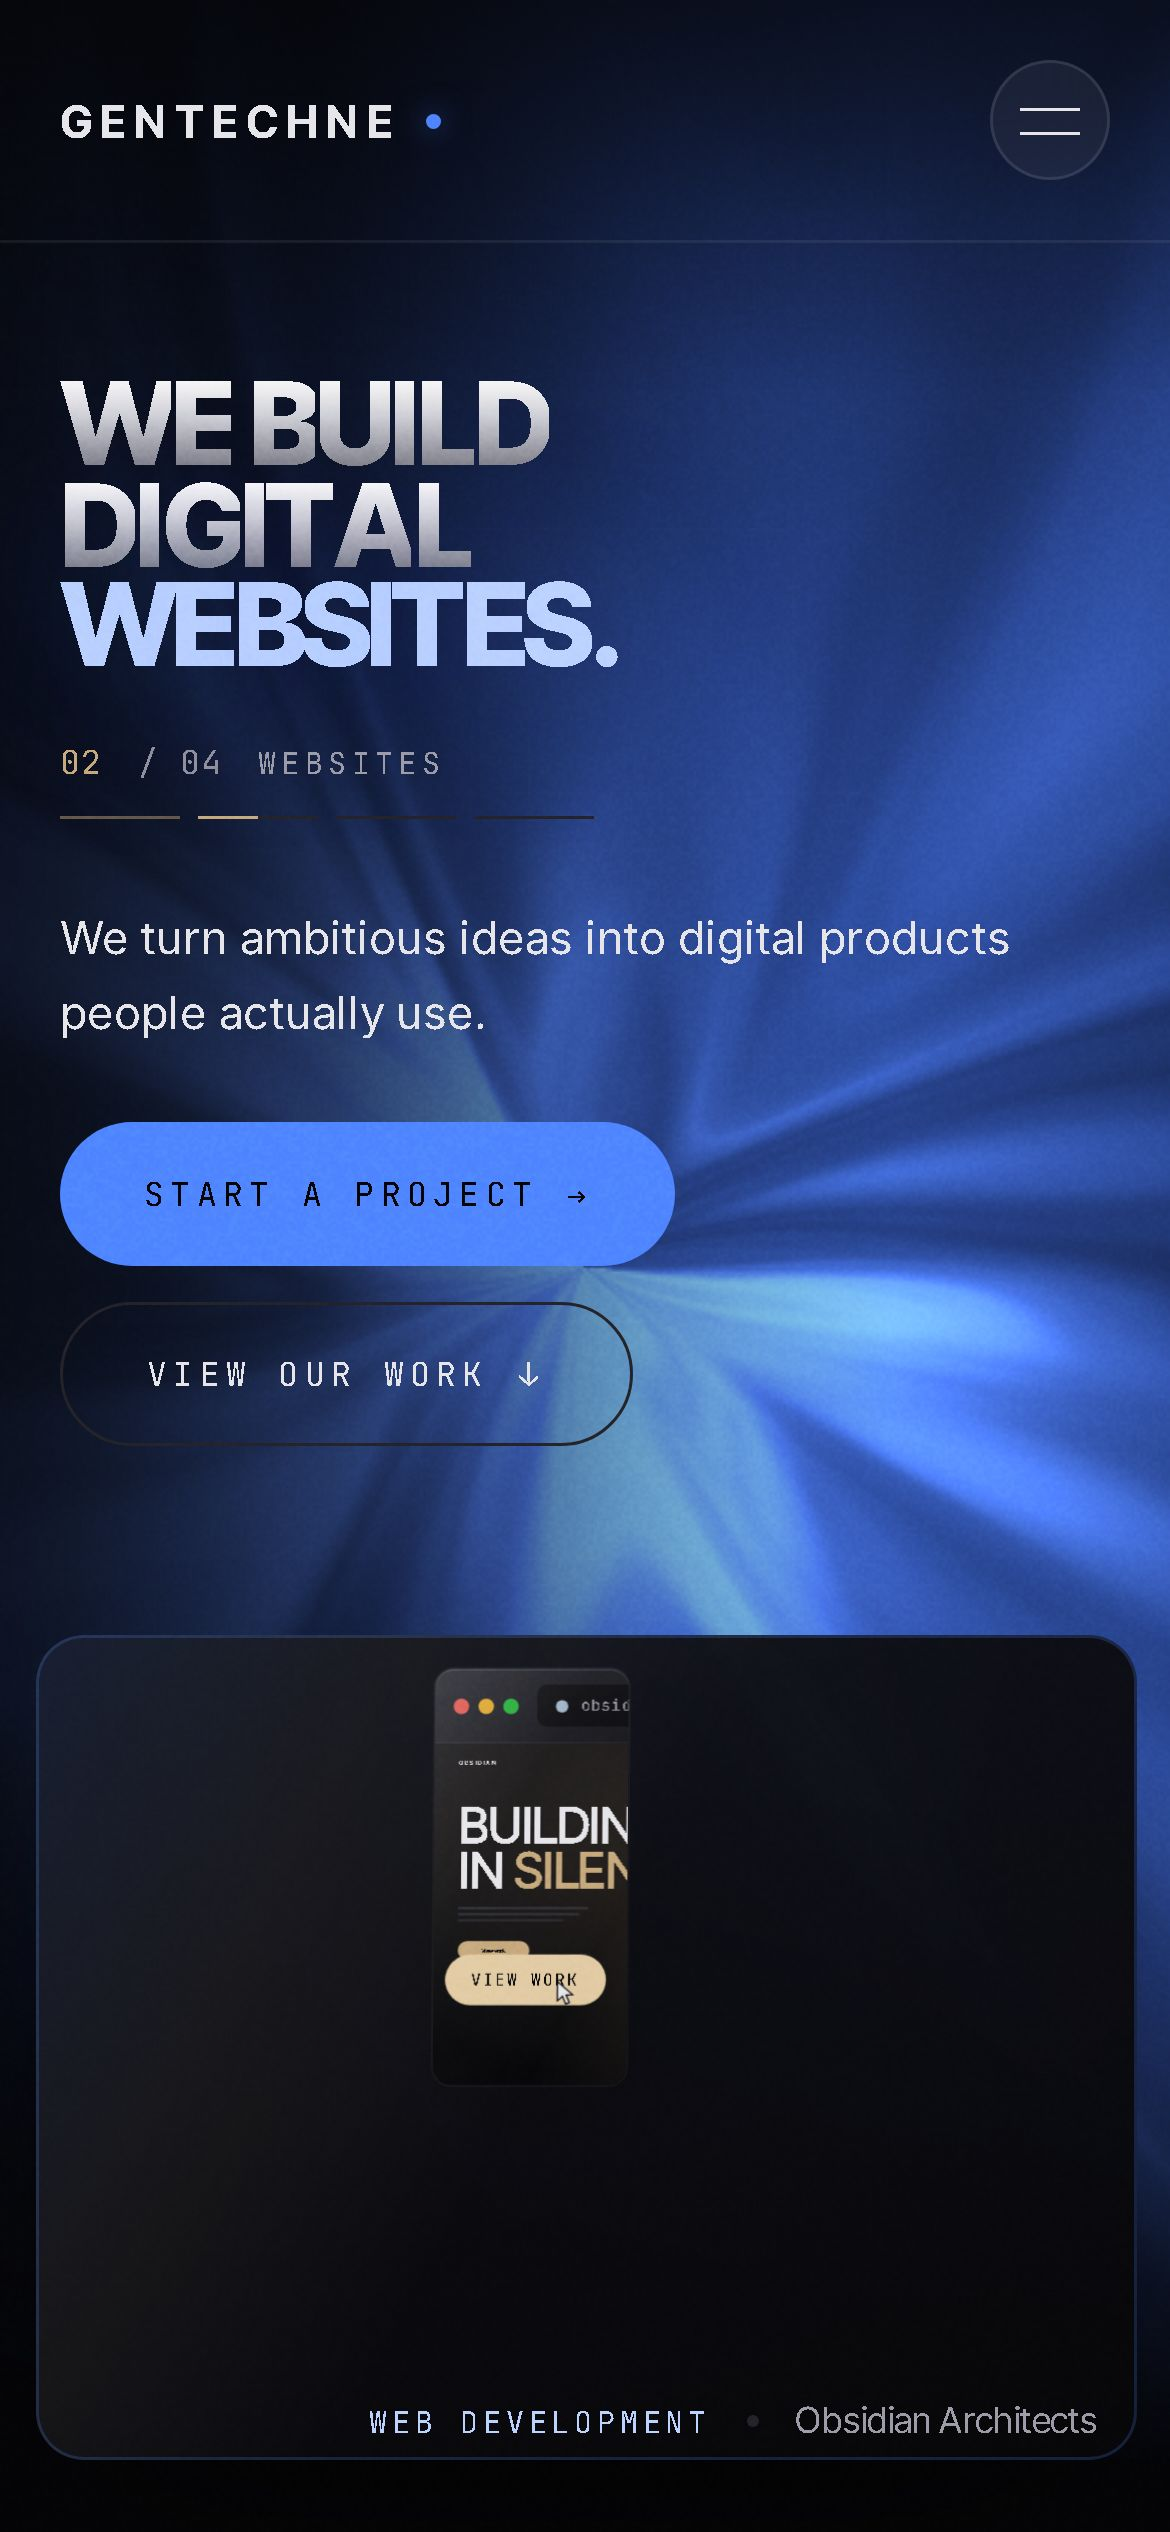
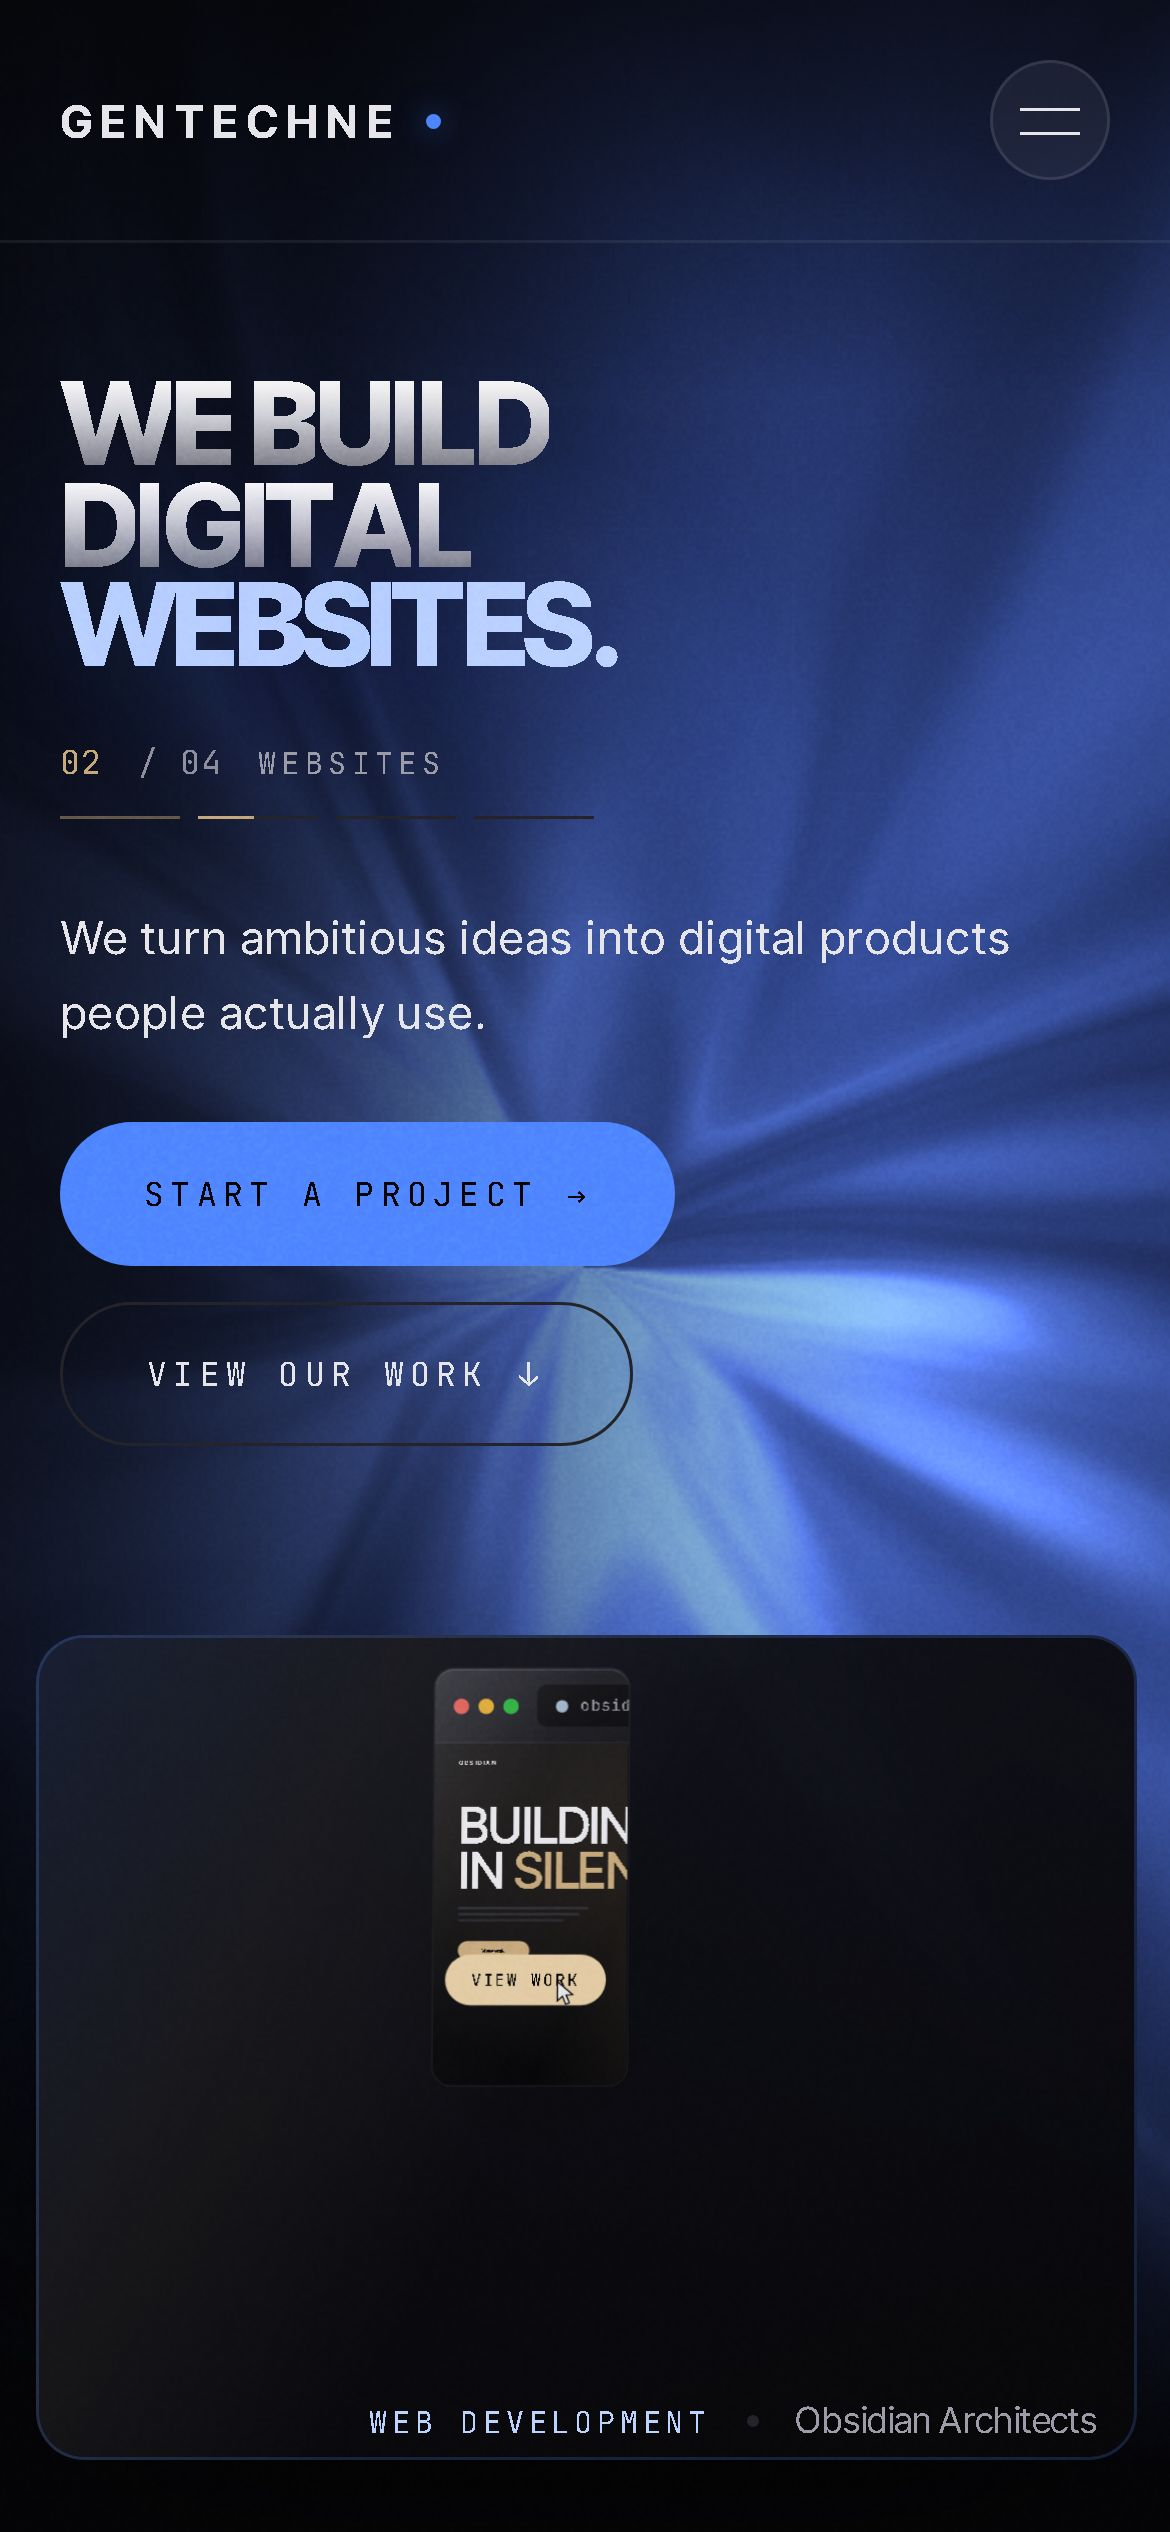
all done

Changed region(s): [[0.6462, 0.4368, 0.7692, 0.4992], [0.8, 0.4992, 0.9231, 0.5616], [0.6462, 0.5304, 0.7077, 0.5928]]

diff --git a/frontend/src/components/ui/PageField.jsx b/frontend/src/components/ui/PageField.jsx
@@ -153,12 +153,19 @@ export function PageField() {
     if (!canvas) return undefined
 
     /*
-     * Low-tier devices never start the shader. A full-screen fragment shader is
-     * cheap on any GPU and expensive without one — measured on a software
-     * renderer it held the page to 25fps even after optimisation. Those devices
-     * get the CSS gradient underneath instead: same palette, not moving.
+     * Low tier used to skip the shader entirely, because on a software renderer
+     * a full-screen fragment shader held the page to 25fps. That measurement
+     * still stands — but the tier is guessed from core count and reported
+     * memory, which say nothing about the GPU. Phones land in this tier by
+     * default, so the whole mobile audience got a background that changed
+     * colour and never moved, which is what it was reported as.
+     *
+     * So the tier now picks a cheaper field rather than no field, and the real
+     * device decides: the watchdog below measures actual frame pacing and drops
+     * to the still gradient if this machine cannot keep up. A guess starts it,
+     * a measurement stops it.
      */
-    if (quality.label === 'low') return undefined
+    const LOW = quality.label === 'low'
 
     const gl =
       canvas.getContext('webgl', { alpha: false, antialias: false, powerPreference: 'low-power' }) ||
@@ -194,7 +201,8 @@ export function PageField() {
 
     /* Under half resolution. The field has no hard edges, so the difference is
        not visible, and it roughly quarters the fragment cost on a 4K panel. */
-    const scale = 0.45
+    /* Fewer pixels to shade is the cheapest lever there is. */
+    const scale = LOW ? 0.28 : 0.45
     let w = 0
     let h = 0
     const resize = () => {
@@ -228,13 +236,41 @@ export function PageField() {
     /* 30fps. The field moves at 0.045 units a second — a dropped frame is not
        perceivable there, and halving the draw rate halves the cost of the most
        expensive thing on the page. */
-    const MIN_DT = 1000 / 30
+    const MIN_DT = LOW ? 1000 / 20 : 1000 / 30
     const start = performance.now()
+
+    /*
+     * Watchdog. Counts frames that arrive far later than they were asked for,
+     * which is what a GPU that cannot keep up actually looks like from here.
+     * Enough of them and the field gives up, paints one still frame and leaves
+     * the page to the CSS gradient — the old low-tier behaviour, but reached by
+     * measuring this device instead of guessing from its core count.
+     */
+    let lateFrames = 0
+    let stalled = false
 
     const frame = (now) => {
       raf = requestAnimationFrame(frame)
       if (now - last < MIN_DT) return
+      const gap = now - last
       last = now
+
+      if (!stalled && now - start > 1500) {
+        // Two and a half times the budget is not jitter, it is a device that
+        // cannot afford this. A second's worth of them is the limit.
+        if (gap > MIN_DT * 2.5) lateFrames += 1
+        else lateFrames = Math.max(0, lateFrames - 1)
+        if (lateFrames > 20) {
+          stalled = true
+          cancelAnimationFrame(raf)
+          drawStill()
+          stillUnsub = onAccent((a) => {
+            target = a
+            drawStill()
+          })
+          return
+        }
+      }
 
       const tgt = hexToRgb(target.key)
       const tgtDeep = hexToRgb(target.deep)

diff --git a/frontend/src/components/navigation/Nav.jsx b/frontend/src/components/navigation/Nav.jsx
@@ -590,7 +590,7 @@ function MenuButton({ open, onClick }) {
 
 function NavOverlay({ open, onClose, onNavigate, activeId, pathname }) {
   const rootRef = useRef(null)
-  const { reducedMotion } = useExperience()
+  const { reducedMotion, toggleMotion } = useExperience()
   const { enabled: soundOn, toggle: toggleSound } = useSound()
 
   useEffect(() => {
@@ -598,7 +598,23 @@ function NavOverlay({ open, onClose, onNavigate, activeId, pathname }) {
     if (!root) return undefined
 
     if (reducedMotion) {
-      gsap.set(root, { autoAlpha: open ? 1 : 0, clipPath: 'none' })
+      /*
+       * `pointerEvents` matters as much as opacity here. The root carries
+       * `pointer-events-none` in its class list and the animated path turns it
+       * back on; this branch used to set only autoAlpha, so with reduced motion
+       * the menu appeared and every tap went straight through it to the page
+       * underneath. The hamburger opened a menu you could not use.
+       *
+       * The items and the meta block also need their rest state applied, since
+       * the timeline that normally reveals them never runs.
+       */
+      gsap.set(root, {
+        autoAlpha: open ? 1 : 0,
+        clipPath: 'none',
+        pointerEvents: open ? 'auto' : 'none',
+      })
+      gsap.set('[data-overlay-item]', { yPercent: 0, autoAlpha: 1 })
+      gsap.set('[data-overlay-meta]', { autoAlpha: open ? 1 : 0, y: 0 })
       return undefined
     }
 
@@ -730,6 +746,26 @@ function NavOverlay({ open, onClose, onNavigate, activeId, pathname }) {
               style={{ background: soundOn ? 'var(--accent)' : '#35353E' }}
             />
             Sound {soundOn ? 'on' : 'off'}
+          </button>
+          {/*
+            Motion belongs here on a phone. The toggle in the bar is `hidden
+            md:flex`, so a phone whose OS asks for reduced motion got a still
+            background and no way to change it — reported as "background changes
+            colour but does not move". The bar has no room for it at this width;
+            the menu does.
+          */}
+          <button
+            type="button"
+            onClick={toggleMotion}
+            tabIndex={open ? 0 : -1}
+            aria-pressed={!reducedMotion}
+            className="flex items-center gap-2 font-mono text-[10px] uppercase tracking-[0.18em] text-mist transition-colors hover:text-bone md:hidden"
+          >
+            <span
+              className="block h-1.5 w-1.5 rounded-full transition-colors duration-500"
+              style={{ background: reducedMotion ? '#35353E' : 'var(--accent)' }}
+            />
+            Motion {reducedMotion ? 'off' : 'on'}
           </button>
         </div>
       </div>
